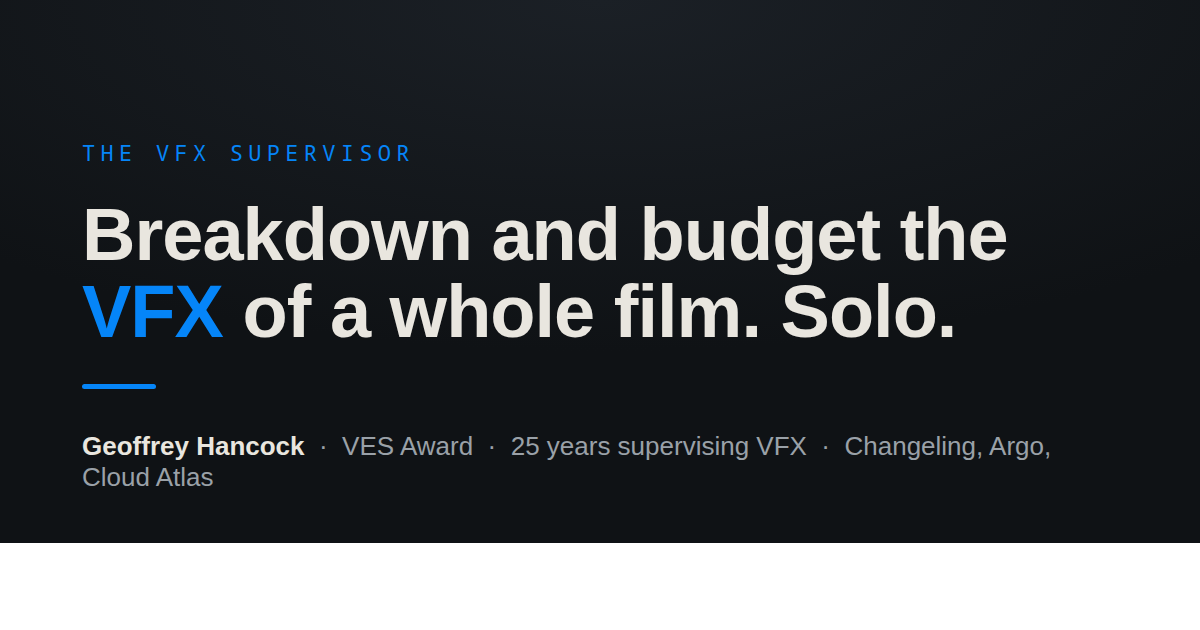
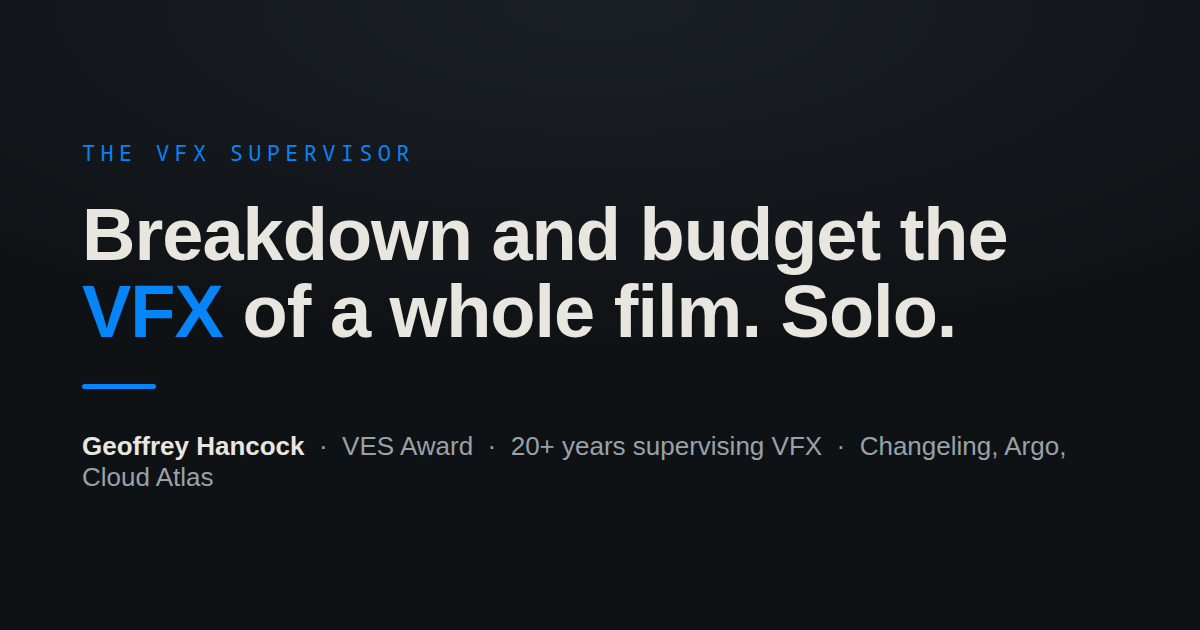
content: 25 years -> 20+ years everywhere (career began 1995); regenerate OG share image to match
Claude-Session: https://claude.ai/code/session_01CuMs3EXiYDqWqQTaE2KykR

Changed region(s): [[0.0, 0.8444, 1.0, 1.0], [0.4317, 0.6937, 0.8942, 0.754]]

diff --git a/docs/index.html b/docs/index.html
@@ -5,19 +5,19 @@
 <meta name="viewport" content="width=device-width, initial-scale=1">
 <meta name="robots" content="index, follow">
 <title>the vfx supervisor | Geoffrey Hancock, VFX Supervisor and Producer</title>
-<meta name="description" content="Geoffrey Hancock, VFX supervisor and producer. VES Award for Changeling. Argo, Cloud Atlas, J. Edgar, Invictus. Twenty five years, Copenhagen. Maker of Breakdown Studio.">
+<meta name="description" content="Geoffrey Hancock, VFX supervisor and producer. VES Award for Changeling. Argo, Cloud Atlas, J. Edgar, Invictus. 20+ years, Copenhagen. Maker of Breakdown Studio.">
 <link rel="icon" type="image/png" sizes="256x256" href="/static/favicon.png">
 <link rel="apple-touch-icon" href="/static/apple-touch-icon.png">
 <link rel="canonical" href="https://thevfxsupervisor.com/">
 <meta property="og:type" content="website">
 <meta property="og:site_name" content="the vfx supervisor">
 <meta property="og:title" content="the vfx supervisor | Geoffrey Hancock, VFX Supervisor and Producer">
-<meta property="og:description" content="Geoffrey Hancock, VFX supervisor and producer. VES Award for Changeling. Argo, Cloud Atlas, J. Edgar, Invictus. Twenty five years, Copenhagen. Maker of Breakdown Studio.">
+<meta property="og:description" content="Geoffrey Hancock, VFX supervisor and producer. VES Award for Changeling. Argo, Cloud Atlas, J. Edgar, Invictus. 20+ years, Copenhagen. Maker of Breakdown Studio.">
 <meta property="og:url" content="https://thevfxsupervisor.com/">
 <meta property="og:image" content="https://thevfxsupervisor.com/static/og-image.png">
 <meta name="twitter:card" content="summary_large_image">
 <meta name="twitter:title" content="the vfx supervisor | Geoffrey Hancock, VFX Supervisor and Producer">
-<meta name="twitter:description" content="Geoffrey Hancock, VFX supervisor and producer. VES Award for Changeling. Argo, Cloud Atlas, J. Edgar, Invictus. Twenty five years, Copenhagen. Maker of Breakdown Studio.">
+<meta name="twitter:description" content="Geoffrey Hancock, VFX supervisor and producer. VES Award for Changeling. Argo, Cloud Atlas, J. Edgar, Invictus. 20+ years, Copenhagen. Maker of Breakdown Studio.">
 <meta name="twitter:image" content="https://thevfxsupervisor.com/static/og-image.png">
 <link rel="stylesheet" href="/static/style.css?v=70e87a35">
   <link rel="alternate" type="application/rss+xml" title="the vfx supervisor" href="https://thevfxsupervisor.com/feed.xml">
@@ -52,14 +52,14 @@
       <a class="btn btn-a" href="/projects/breakdown-studio/">See Breakdown Studio</a>
       <a class="btn btn-b" href="/course/">Join the course waitlist</a>
     </div>
-    <div class="cred"><span class="dot"></span><b>VES Award for Changeling. Argo, Cloud Atlas, J. Edgar, Invictus, Atlantic Crossing, LEGO Ninjago. Twenty five years. Copenhagen.</b></div>
+    <div class="cred"><span class="dot"></span><b>VES Award for Changeling. Argo, Cloud Atlas, J. Edgar, Invictus, Atlantic Crossing, LEGO Ninjago. 20+ years. Copenhagen.</b></div>
   </div>
 </section>
 
 <section id="projects-links">
   <div class="wrap">
     <span class="eyebrow">Projects &amp; links</span>
-    <div class="proj-grid"><a class="proj-card flagship" href="/projects/breakdown-studio/"><span class="eyebrow">Flagship · open source</span><h2>Breakdown Studio</h2><p>A shot-breakdown pipeline that turns weeks of hand-logging a film cut into an afternoon. Built solo, validated on a feature in active production, MIT.</p><span class="proj-more mono">Read the case study &rarr;</span></a><a class="proj-card" href="/projects/link-session/"><span class="eyebrow">Claude Agent Skill · open source</span><h2>link-session</h2><p>A Claude Code skill for coordinating several live AI agent sessions over shared files. No server, no message bus.</p><span class="proj-more mono">Read the case study &rarr;</span></a><a class="proj-card" href="/course/"><span class="eyebrow">Course &middot; free waitlist</span><h2>A course teaching the method</h2><p>Break down and budget a whole film solo, with an AI pair doing the grunt work. Founding cohort 325 USD.</p><span class="proj-more mono">See the course &rarr;</span></a><a class="proj-card" href="/about/"><span class="eyebrow">About &middot; 25 years</span><h2>Twenty five years, and a VES Award</h2><p>VFX for Eastwood, the Wachowskis and Affleck: Changeling (VES Award), J. Edgar, Invictus, Argo, Cloud Atlas. Work for Netflix, Pandora, LEGO, Sony. Copenhagen.</p><span class="proj-more mono">More about me &rarr;</span></a></div>
+    <div class="proj-grid"><a class="proj-card flagship" href="/projects/breakdown-studio/"><span class="eyebrow">Flagship · open source</span><h2>Breakdown Studio</h2><p>A shot-breakdown pipeline that turns weeks of hand-logging a film cut into an afternoon. Built solo, validated on a feature in active production, MIT.</p><span class="proj-more mono">Read the case study &rarr;</span></a><a class="proj-card" href="/projects/link-session/"><span class="eyebrow">Claude Agent Skill · open source</span><h2>link-session</h2><p>A Claude Code skill for coordinating several live AI agent sessions over shared files. No server, no message bus.</p><span class="proj-more mono">Read the case study &rarr;</span></a><a class="proj-card" href="/course/"><span class="eyebrow">Course &middot; free waitlist</span><h2>A course teaching the method</h2><p>Break down and budget a whole film solo, with an AI pair doing the grunt work. Founding cohort 325 USD.</p><span class="proj-more mono">See the course &rarr;</span></a><a class="proj-card" href="/about/"><span class="eyebrow">About &middot; 20+ years</span><h2>20+ years, and a VES Award</h2><p>VFX for Eastwood, the Wachowskis and Affleck: Changeling (VES Award), J. Edgar, Invictus, Argo, Cloud Atlas. Work for Netflix, Pandora, LEGO, Sony. Copenhagen.</p><span class="proj-more mono">More about me &rarr;</span></a></div>
     <div class="ql-row" style="margin-top:22px"><a href="/notes/">Notes</a> &middot; <a href="https://github.com/thevfxsupervisor">GitHub</a> &middot; <a href="mailto:geoff@wanglemedia.com">Contact</a></div>
   </div>
 </section>

diff --git a/docs/course/index.html b/docs/course/index.html
@@ -5,19 +5,19 @@
 <meta name="viewport" content="width=device-width, initial-scale=1">
 <meta name="robots" content="index, follow">
 <title>Breakdown and Budget the VFX of a Whole Film. Solo. | the vfx supervisor</title>
-<meta name="description" content="A live workshop for film producers and VFX supervisors going independent, on how to break down, budget and bid a whole film's VFX in the AI era: what to automate, what to trust, and the legal lines (chain of title) not to cross. Runs about once a month. Join the free waitlist for the next date and get the "Shoots You in the Foot" VFX and AI gotchas list. Taught by Geoffrey Hancock, VES Award winner, 25 years supervising VFX on Changeling, Argo, Cloud Atlas and Atlantic Crossing.">
+<meta name="description" content="A live workshop for film producers and VFX supervisors going independent, on how to break down, budget and bid a whole film's VFX in the AI era: what to automate, what to trust, and the legal lines (chain of title) not to cross. Runs about once a month. Join the free waitlist for the next date and get the "Shoots You in the Foot" VFX and AI gotchas list. Taught by Geoffrey Hancock, VES Award winner, 20+ years supervising VFX on Changeling, Argo, Cloud Atlas and Atlantic Crossing.">
 <link rel="icon" type="image/png" sizes="256x256" href="/static/favicon.png">
 <link rel="apple-touch-icon" href="/static/apple-touch-icon.png">
 <link rel="canonical" href="https://thevfxsupervisor.com/course/">
 <meta property="og:type" content="website">
 <meta property="og:site_name" content="the vfx supervisor">
 <meta property="og:title" content="Breakdown and Budget the VFX of a Whole Film. Solo. | the vfx supervisor">
-<meta property="og:description" content="A live workshop for film producers and VFX supervisors going independent, on how to break down, budget and bid a whole film's VFX in the AI era: what to automate, what to trust, and the legal lines (chain of title) not to cross. Runs about once a month. Join the free waitlist for the next date and get the "Shoots You in the Foot" VFX and AI gotchas list. Taught by Geoffrey Hancock, VES Award winner, 25 years supervising VFX on Changeling, Argo, Cloud Atlas and Atlantic Crossing.">
+<meta property="og:description" content="A live workshop for film producers and VFX supervisors going independent, on how to break down, budget and bid a whole film's VFX in the AI era: what to automate, what to trust, and the legal lines (chain of title) not to cross. Runs about once a month. Join the free waitlist for the next date and get the "Shoots You in the Foot" VFX and AI gotchas list. Taught by Geoffrey Hancock, VES Award winner, 20+ years supervising VFX on Changeling, Argo, Cloud Atlas and Atlantic Crossing.">
 <meta property="og:url" content="https://thevfxsupervisor.com/course/">
 <meta property="og:image" content="https://thevfxsupervisor.com/static/og-image.png">
 <meta name="twitter:card" content="summary_large_image">
 <meta name="twitter:title" content="Breakdown and Budget the VFX of a Whole Film. Solo. | the vfx supervisor">
-<meta name="twitter:description" content="A live workshop for film producers and VFX supervisors going independent, on how to break down, budget and bid a whole film's VFX in the AI era: what to automate, what to trust, and the legal lines (chain of title) not to cross. Runs about once a month. Join the free waitlist for the next date and get the "Shoots You in the Foot" VFX and AI gotchas list. Taught by Geoffrey Hancock, VES Award winner, 25 years supervising VFX on Changeling, Argo, Cloud Atlas and Atlantic Crossing.">
+<meta name="twitter:description" content="A live workshop for film producers and VFX supervisors going independent, on how to break down, budget and bid a whole film's VFX in the AI era: what to automate, what to trust, and the legal lines (chain of title) not to cross. Runs about once a month. Join the free waitlist for the next date and get the "Shoots You in the Foot" VFX and AI gotchas list. Taught by Geoffrey Hancock, VES Award winner, 20+ years supervising VFX on Changeling, Argo, Cloud Atlas and Atlantic Crossing.">
 <meta name="twitter:image" content="https://thevfxsupervisor.com/static/og-image.png">
 <link rel="stylesheet" href="/static/style.css?v=70e87a35">
   <link rel="alternate" type="application/rss+xml" title="the vfx supervisor" href="https://thevfxsupervisor.com/feed.xml">

diff --git a/docs/about/index.html b/docs/about/index.html
@@ -53,7 +53,7 @@
 <section>
   <div class="wrap prose">
     <p>I am a VFX supervisor and producer. I run VFX departments on film and television productions, and build the tooling that makes that work efficient even when there is no large department to hand it to.</p>
-<p>Twenty five years of it. I hold a <strong>VES Award for Changeling</strong>, and a Robert nomination for Skammerens datter II. I have supervised visual effects on films directed by Clint Eastwood, the Wachowskis and Ben Affleck: <strong>Changeling, J. Edgar, Invictus, Argo, Cloud Atlas</strong>, along with Twilight, Night at the Museum and Red Dawn. On international productions I have run the full VFX lifecycle across vendors in Belgium, the Czech Republic, Slovakia, Scandinavia, Taiwan and Pakistan. On <strong>LEGO Ninjago</strong> I art directed seasons coordinating Danish and Chinese teams.</p>
+<p>Twenty-plus years of it. I hold a <strong>VES Award for Changeling</strong>, and a Robert nomination for Skammerens datter II. I have supervised visual effects on films directed by Clint Eastwood, the Wachowskis and Ben Affleck: <strong>Changeling, J. Edgar, Invictus, Argo, Cloud Atlas</strong>, along with Twilight, Night at the Museum and Red Dawn. On international productions I have run the full VFX lifecycle across vendors in Belgium, the Czech Republic, Slovakia, Scandinavia, Taiwan and Pakistan. On <strong>LEGO Ninjago</strong> I art directed seasons coordinating Danish and Chinese teams.</p>
 <p>Through Wangle Media in Copenhagen I have delivered animation, VFX and real time work for <strong>Netflix, Pandora, LEGO, Sony, Kia, BRIO, Novo Nordisk, Mint Copenhagen and M2</strong>, and collaborated with Larissa Sansour on In Vitro, which won at the Venice Biennale and went to Netflix.</p>
 <p>Work under a live NDA stays unnamed here, so the feature I am on this year is just that: a feature in production.</p>
 <p>I work through Wangle Media, and I build production tooling as a matter of course, because the tools that exist rarely fit the job in front of me. Breakdown Studio, an open-source shot-breakdown pipeline, is the first of that tooling I've shipped publicly, released under the MIT license.</p>

diff --git a/build.py b/build.py
@@ -387,8 +387,8 @@ def render_home():
     )
     cards.append(
         f'<a class="proj-card" href="{SITE_ROOT}about/">'
-        f'<span class="eyebrow">About &middot; 25 years</span>'
-        f'<h2>Twenty five years, and a VES Award</h2>'
+        f'<span class="eyebrow">About &middot; 20+ years</span>'
+        f'<h2>20+ years, and a VES Award</h2>'
         f'<p>VFX for Eastwood, the Wachowskis and Affleck: Changeling (VES Award), J. Edgar, Invictus, Argo, Cloud Atlas. Work for Netflix, Pandora, LEGO, Sony. Copenhagen.</p>'
         f'<span class="proj-more mono">More about me &rarr;</span></a>'
     )

diff --git a/content/pages/home.md b/content/pages/home.md
@@ -2,7 +2,7 @@
 type: page
 slug: home
 title: the vfx supervisor | Geoffrey Hancock, VFX Supervisor and Producer
-description: Geoffrey Hancock, VFX supervisor and producer. VES Award for Changeling. Argo, Cloud Atlas, J. Edgar, Invictus. Twenty five years, Copenhagen. Maker of Breakdown Studio.
+description: Geoffrey Hancock, VFX supervisor and producer. VES Award for Changeling. Argo, Cloud Atlas, J. Edgar, Invictus. 20+ years, Copenhagen. Maker of Breakdown Studio.
 hero_eyebrow: VFX Supervisor & Producer
 hero_h1: VFX supervision. Pipeline engineering. AI orchestration.
 hero_h1_accent: AI orchestration.
@@ -11,7 +11,7 @@ cta_primary_href: /projects/breakdown-studio/
 cta_primary_label: See Breakdown Studio
 cta_secondary_href: /course/
 cta_secondary_label: Join the course waitlist
-cred: VES Award for Changeling. Argo, Cloud Atlas, J. Edgar, Invictus, Atlantic Crossing, LEGO Ninjago. Twenty five years. Copenhagen.
+cred: VES Award for Changeling. Argo, Cloud Atlas, J. Edgar, Invictus, Atlantic Crossing, LEGO Ninjago. 20+ years. Copenhagen.
 proof_h2:
 final_h2: Learn to do it yourself
 final_p: Breakdown Studio is free and live now, go use it. If you want the whole method, breaking down and budgeting a film's VFX solo with an AI pair, I teach it live about once a month. Join the free waitlist for the next date and you get my VFX and AI gotchas list straight away. Founding rate 325 USD, 450 after.
@@ -22,7 +22,7 @@ final_secondary_href: /projects/breakdown-studio/
 ---
 
 <!-- pillars -->
-### Twenty five years, and a VES Award
+### 20+ years, and a VES Award
 I have supervised visual effects for Clint Eastwood, the Wachowskis and Ben Affleck: Changeling, which won me the VES Award for Outstanding Supporting Visual Effects, then J. Edgar, Invictus, Argo and Cloud Atlas. Atlantic Crossing across vendors in three countries. LEGO Ninjago art directed across Danish and Chinese teams. Work for Netflix, Pandora, LEGO, Sony, Kia, Novo Nordisk, Mint Copenhagen and M2.
 
 <!-- /pillars -->

diff --git a/content/pages/course.md b/content/pages/course.md
@@ -2,11 +2,11 @@
 type: page
 slug: course
 title: Breakdown and Budget the VFX of a Whole Film. Solo. | the vfx supervisor
-description: A live workshop for film producers and VFX supervisors going independent, on how to break down, budget and bid a whole film's VFX in the AI era: what to automate, what to trust, and the legal lines (chain of title) not to cross. Runs about once a month. Join the free waitlist for the next date and get the "Shoots You in the Foot" VFX and AI gotchas list. Taught by Geoffrey Hancock, VES Award winner, 25 years supervising VFX on Changeling, Argo, Cloud Atlas and Atlantic Crossing.
+description: A live workshop for film producers and VFX supervisors going independent, on how to break down, budget and bid a whole film's VFX in the AI era: what to automate, what to trust, and the legal lines (chain of title) not to cross. Runs about once a month. Join the free waitlist for the next date and get the "Shoots You in the Foot" VFX and AI gotchas list. Taught by Geoffrey Hancock, VES Award winner, 20+ years supervising VFX on Changeling, Argo, Cloud Atlas and Atlantic Crossing.
 eyebrow: Live workshop · Runs monthly · Free waitlist
 h1: Breakdown and Budget the VFX of a Whole Film. Solo.
 lede: The method for carrying a whole film's breakdown and budget when the department is just you. Taught live, end to end, in one working session. It runs about once a month.
-cred_line: VES Award winner · 25 years supervising VFX on Changeling, Argo, Cloud Atlas and Atlantic Crossing
+cred_line: VES Award winner · 20+ years supervising VFX on Changeling, Argo, Cloud Atlas and Atlantic Crossing
 seats_note: Free to join.
 hero_cta: Join the free waitlist
 included_h2: The method, end to end

diff --git a/content/pages/about.md b/content/pages/about.md
@@ -11,7 +11,7 @@ final_p: Based in Copenhagen, EU work authorisation. Available for freelance VFX
 
 I am a VFX supervisor and producer. I run VFX departments on film and television productions, and build the tooling that makes that work efficient even when there is no large department to hand it to.
 
-Twenty five years of it. I hold a **VES Award for Changeling**, and a Robert nomination for Skammerens datter II. I have supervised visual effects on films directed by Clint Eastwood, the Wachowskis and Ben Affleck: **Changeling, J. Edgar, Invictus, Argo, Cloud Atlas**, along with Twilight, Night at the Museum and Red Dawn. On international productions I have run the full VFX lifecycle across vendors in Belgium, the Czech Republic, Slovakia, Scandinavia, Taiwan and Pakistan. On **LEGO Ninjago** I art directed seasons coordinating Danish and Chinese teams.
+Twenty-plus years of it. I hold a **VES Award for Changeling**, and a Robert nomination for Skammerens datter II. I have supervised visual effects on films directed by Clint Eastwood, the Wachowskis and Ben Affleck: **Changeling, J. Edgar, Invictus, Argo, Cloud Atlas**, along with Twilight, Night at the Museum and Red Dawn. On international productions I have run the full VFX lifecycle across vendors in Belgium, the Czech Republic, Slovakia, Scandinavia, Taiwan and Pakistan. On **LEGO Ninjago** I art directed seasons coordinating Danish and Chinese teams.
 
 Through Wangle Media in Copenhagen I have delivered animation, VFX and real time work for **Netflix, Pandora, LEGO, Sony, Kia, BRIO, Novo Nordisk, Mint Copenhagen and M2**, and collaborated with Larissa Sansour on In Vitro, which won at the Venice Biennale and went to Netflix.
 
